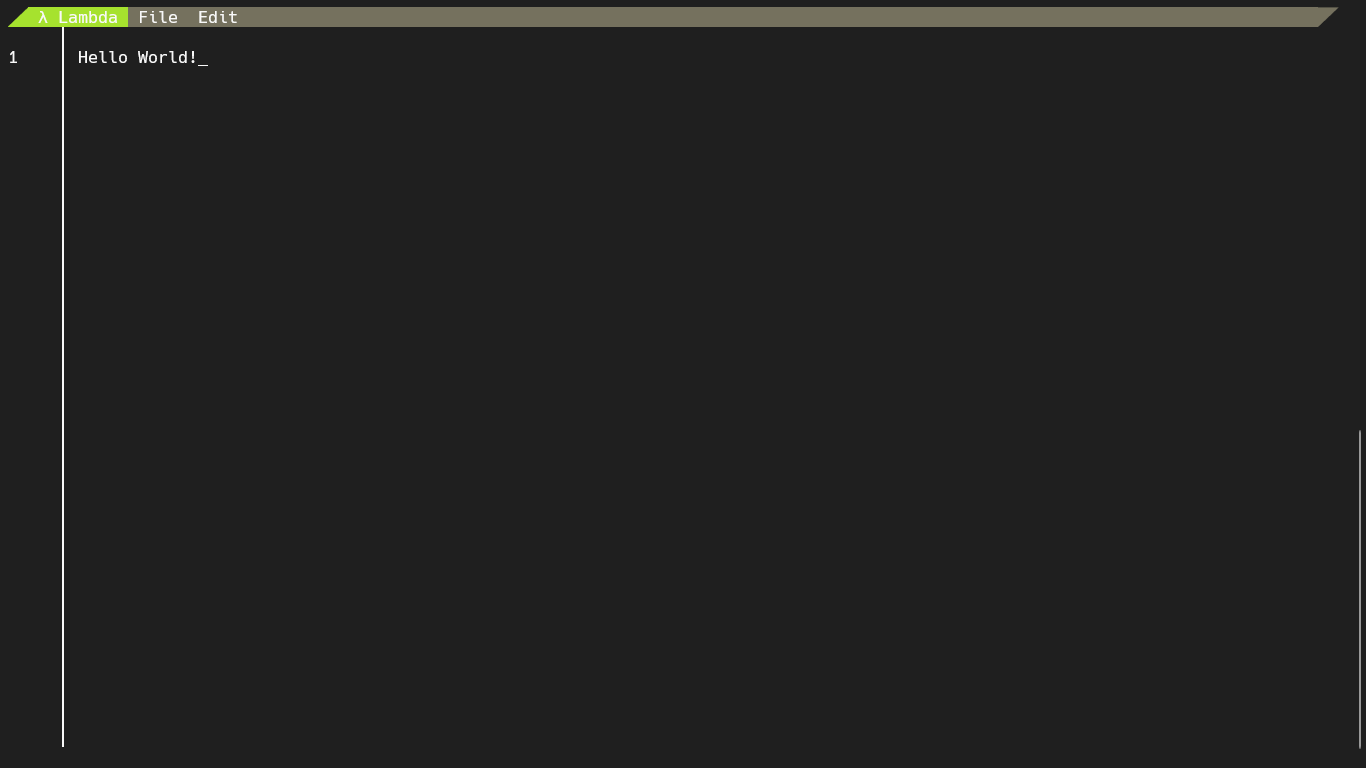
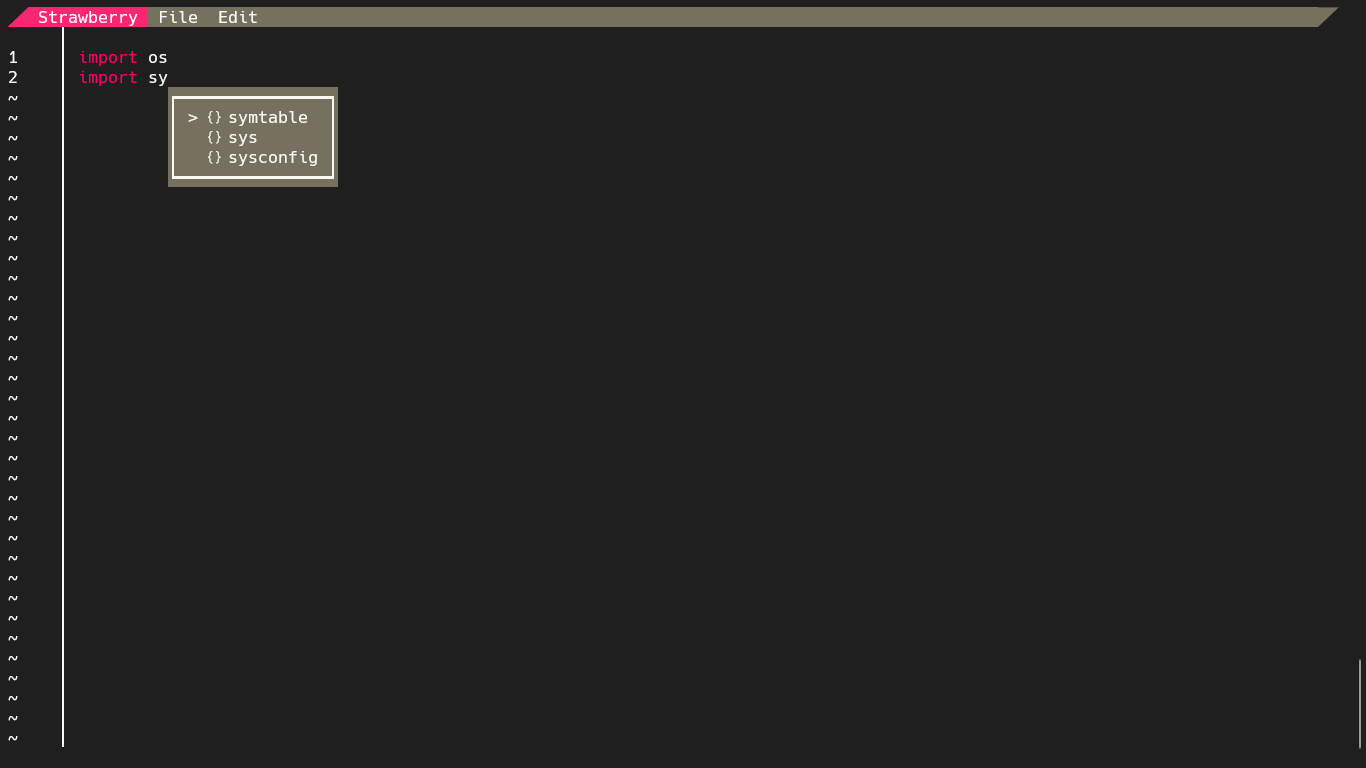
Fixed Big Bugs and added extensions
* Fixed Some Big Bugs
* Added extensions
* Added Start.py for easier starting
* Moved Settings to Settings.py

Changed region(s): [[0.0, 0.0, 0.246, 0.25]]

diff --git a/src/window.py b/src/window.py
@@ -2,14 +2,9 @@
 import os
 import sys
 import time
-import io
 import threading
-from pygments import highlight
-from pygments.lexers import get_lexer_by_name
 from pygments.formatters import Terminal256Formatter
 
-from yachalk import chalk
-import jedi
 from readchar import readkey as getch
 from readchar.key import (
     ESC,
@@ -23,9 +18,12 @@ from readchar.key import (
     BACKSPACE,
     CTRL_Q,
     ENTER,
+    F4
 )
 
-from .menus import Lambda, File, Edit
+from .settings import ICONS, BOX, STYLES, CONFIGS
+from .menus import Strawberry, File, Edit
+from .extensions import extensions
 
 CTRL_BACKSPACE = '\x7f'
 
@@ -34,13 +32,14 @@ class Window(object):
     """Window"""
     def __init__(self):
         self.stdout = sys.stdout
-        sys.stdout = io.StringIO("")
         self.terminal_cols = os.get_terminal_size().columns
         self.terminal_lines = os.get_terminal_size().lines
         self.can_draw = True
 
-        self.menus = [Lambda, File, Edit]
+        self.menus = [Strawberry, File, Edit]
         self.current_menu = 0
+
+        self.file_name = '<None>'
 
         self.input = [[]]
         self.input_index = 0
@@ -48,25 +47,19 @@ class Window(object):
         self.is_in_input = True
         self.is_cursor_visible = True
 
-        self.completions = []
-        self.is_auto_complete_visible = False
-        self.auto_complete_scroll_bar = 0
+        self.highlighter = lambda code, _: code
+        self.highlighters = []
 
-        self.box = '┏┓━┃┗┛'
-        self.icons = {'module': '\uea8b ', 'class': '\ueb5b ',
-                      'instance': '\ueb63 ', 'function': '\uea8c ',
-                      'param': '\uea92 ', 'path': '\ueb60 ',
-                      'keyword': '\ueb62 ', 'property': '\ueb65 ',
-                      'statement': '\uea88 '}
-        self.config = {'menu.start': ' \ue0ba', 'menu.end': '\ue0bc ',
-                       'cursor.shape': 'b', 'theme': 'monokai'}
-        self.style = {'menu.unselected': chalk.bg_gray,
-                      'menu.start.selected': chalk.green,
-                      'menu.start.unselected': chalk.gray,
-                      'menu.end.unselected': chalk.gray,
-                      'menu.selected': chalk.bg_green,
-                      'menu.bg_color': chalk.bg_gray,
-                      'completionbox.color': chalk.bg_gray.white}
+        self.completions = []
+        self.is_auto_complete_visible = True
+        self.auto_complete_scroll_bar = 0
+        self.auto_completer = lambda _, __, ___: []
+        self.auto_completers = []
+
+        self.box = BOX
+        self.icons = ICONS
+        self.config = CONFIGS
+        self.style = STYLES
 
     def start(self):
         """Runs at start of execution"""
@@ -80,11 +73,10 @@ class Window(object):
         sys.exit()
 
     def highlight(self, code):
-        """syntax highlighter"""
-        return highlight(code,
-                         lexer=get_lexer_by_name("markdown"),
-                         formatter=Terminal256Formatter(style=self.config
-                                                        ['theme']))
+        """Syntax highlighter"""
+        return self.highlighter(code,
+                                (Terminal256Formatter(style=self.config
+                                                      ['theme'])))
 
     def key_right(self):
         """Right key press"""
@@ -166,7 +158,7 @@ class Window(object):
         self.stdout.write('     \u2502')
         self.move_cursor(0, 0)
 
-    def auto_complete(self, left, top, index):
+    def draw_auto_complete(self, left, top, index):
         """Writes auto Completion"""
         equal_to_ten = len(self.completions[index: 10 + index]) == 10
         completions = (self.completions[index: 10 + index] if equal_to_ten
@@ -226,7 +218,7 @@ class Window(object):
             for line_index, i in enumerate(self.input):
                 self.move_cursor(0, line_index + 2)
                 self.stdout.write(str(line_index + 1).ljust(5) + '\u2502 ')
-                self.stdout.write(''.join(i))
+                self.stdout.write(self.highlight(''.join(i)).replace('\n', ''))
             self.move_cursor(self.input_index + 7, self.input_line + 2)
             if self.is_in_input is True:
                 try:
@@ -239,9 +231,10 @@ class Window(object):
                         self.set_underline_here(character)
                     elif self.config['cursor.shape'] == 'b':
                         self.set_block_here(character)
-
-            self.auto_complete(self.input_index + 7, self.input_line + 2,
-                               self.auto_complete_scroll_bar)
+            if (self.input[self.input_line] != [] and
+               self.is_auto_complete_visible):
+                self.draw_auto_complete(self.input_index + 7, self.input_line
+                                        + 3, self.auto_complete_scroll_bar)
 
             self.stdout.write('')
             self.move_cursor(0, 0)
@@ -290,7 +283,10 @@ class Window(object):
             try:
                 key = getch()
                 if key == ESC:
-                    self.is_in_input = not self.is_in_input
+                    if self.is_auto_complete_visible is not True:
+                        self.is_in_input = not self.is_in_input
+                    else:
+                        self.is_auto_complete_visible = False
                 elif key == LEFT:
                     self.key_left()
                 elif key == RIGHT:
@@ -300,13 +296,10 @@ class Window(object):
                 elif self.is_in_input is True:
                     if key == ENTER:
                         self.add_newline()
-                        self.is_auto_complete_visible = False
                     elif key == DELETE:
                         self.remove_line()
-                        self.is_auto_complete_visible = False
                     elif key == BACKSPACE:
                         self.remove_character()
-                        self.is_auto_complete_visible = False
                     elif key == UP:
                         self.key_up()
                     elif key == DOWN:
@@ -317,9 +310,11 @@ class Window(object):
                         self.key_end()
                     elif key == CTRL_BACKSPACE:
                         self.remove_word()
+                    elif key == F4:
+                        self.is_auto_complete_visible = True
                     elif ord(key[0]) in range(32, 127):
                         self.add_character(key[0])
-                        self.is_auto_complete_visible = False
+                        self.is_auto_complete_visible = True
                 self.is_cursor_visible = True
             except KeyboardInterrupt:
                 self.end()
@@ -335,16 +330,29 @@ class Window(object):
                 self.is_cursor_visible = False
                 time.sleep(1)
 
-    def py_auto_complete(self):
-        """python auto complete"""
+    def file_open(self, name):
+        """Runs at file openning"""
+        self.file_name = name
+        for i in self.highlighters:
+            if self.file_name.split('.')[-1] in i[0]:
+                self.highlighter = i[1]
+        for i in self.auto_completers:
+            if self.file_name.split('.')[-1] in i[0]:
+                self.auto_completer = i[1]
+
+    def extensions(self):
+        """Extensions"""
+        for i in extensions:
+            if i.TYPE == 'Highlighter':
+                self.highlighters.append([i.FILE_TYPES, i.highlighter])
+            elif i.TYPE == 'AutoComplete':
+                self.auto_completers.append([i.FILE_TYPES,
+                                            i.auto_complete])
         while True:
-            input_str = '\n'.join(''.join(i) for i in self.input)
-            line = self.input_line
-            col = self.input_index
-            if (input_str != '' and input_str.split('\n')[line] != ''):
-                script = jedi.Script(input_str, path='')
-                self.completions = script.complete(line + 1,
-                                                   col)
+            code = '\n'.join(''.join(i) for i in self.input)
+            self.completions = self.auto_completer(code,
+                                                   self.input_index,
+                                                   self.input_line)
 
     def main_loop(self):
         """Starts main loop"""
@@ -352,4 +360,5 @@ class Window(object):
         threading.Thread(target=self.check_for_keys).start()
         threading.Thread(target=self.draw, daemon=True).start()
         threading.Thread(target=self.cursor, daemon=True).start()
-        threading.Thread(target=self.py_auto_complete, daemon=True).start()
+        threading.Thread(target=self.extensions, daemon=True).start()
+        self.file_open('<None>')

diff --git a/src/settings.py b/src/settings.py
@@ -1,0 +1,23 @@
+"""Setting"""
+from yachalk import chalk
+
+BOX = '┏┓━┃┗┛'
+
+ICONS = {'module': '\uea8b ', 'class': '\ueb5b ',
+         'instance': '\ueb63 ', 'function': '\uea8c ',
+         'param': '\uea92 ', 'path': '\ueb60 ',
+         'keyword': '\ueb62 ', 'property': '\ueb65 ',
+         'statement': '\uea88 '}
+
+CONFIGS = {'menu.start': ' \ue0ba', 'menu.end': '\ue0bc ',
+           'cursor.shape': 'b', 'theme': 'monokai'}
+# cursor.shape can be 'b' for box or 'u' for underline
+# theme can be any pygments style
+
+STYLES = {'menu.unselected': chalk.bg_gray,
+          'menu.start.selected': chalk.red,
+          'menu.start.unselected': chalk.gray,
+          'menu.end.unselected': chalk.gray,
+          'menu.selected': chalk.bg_red,
+          'menu.bg_color': chalk.bg_gray,
+          'completionbox.color': chalk.bg_gray.white}

diff --git a/src/extensions/python_syntax.py b/src/extensions/python_syntax.py
@@ -1,0 +1,13 @@
+"""Syntax highlightling for python language"""
+from pygments import highlight
+from pygments.lexers import get_lexer_by_name
+
+TYPE = 'Highlighter'
+FILE_TYPES = ['py', '<None>']
+
+
+def highlighter(code, formatter):
+    """Syntax Highlighter"""
+    return highlight(code,
+                     lexer=get_lexer_by_name("python"),
+                     formatter=formatter)

diff --git a/src/extensions/python_auto_complete.py b/src/extensions/python_auto_complete.py
@@ -1,0 +1,13 @@
+"""Auto complete for python language"""
+import jedi
+
+TYPE = 'AutoComplete'
+FILE_TYPES = ['py', '<None>']
+
+
+def auto_complete(code, col, line):
+    """Python auto complete"""
+    if code != '' and code.split('\n')[line] != '':
+        script = jedi.Script(code, path='')
+        return script.complete(line + 1, col)
+    return []

diff --git a/src/menus.py b/src/menus.py
@@ -1,9 +1,9 @@
 """Menus"""
 
 
-class Lambda():
-    """Lambda menu"""
-    name = '\u03bb Lambda'
+class Strawberry():
+    """Strawberry menu"""
+    name = 'Strawberry'
     list = ['a', 'b', 'c', 'd']
 
 

diff --git a/src/extensions/__init__.py b/src/extensions/__init__.py
@@ -1,0 +1,3 @@
+"""extentions"""
+from . import python_auto_complete, python_syntax
+extensions = [python_auto_complete, python_syntax]

diff --git a/start.py b/start.py
@@ -1,0 +1,7 @@
+"""Start the Editor"""
+
+from src import window
+
+editor = window.Window()
+
+editor.main_loop()

diff --git a/README.md b/README.md
@@ -1,6 +1,6 @@
-# Lambda
+# Strawberry Editor
 an fast and highly customizable TUI text editor made in python
 
 ![Screenshot](https://github.com/Mani4D46/Lambda/blob/main/image.PNG)
 
-## NOTE: This project is HIGHLY work in progress
+## NOTE: This project is HIGHLY work in progress so if you find an bug please open an issue
